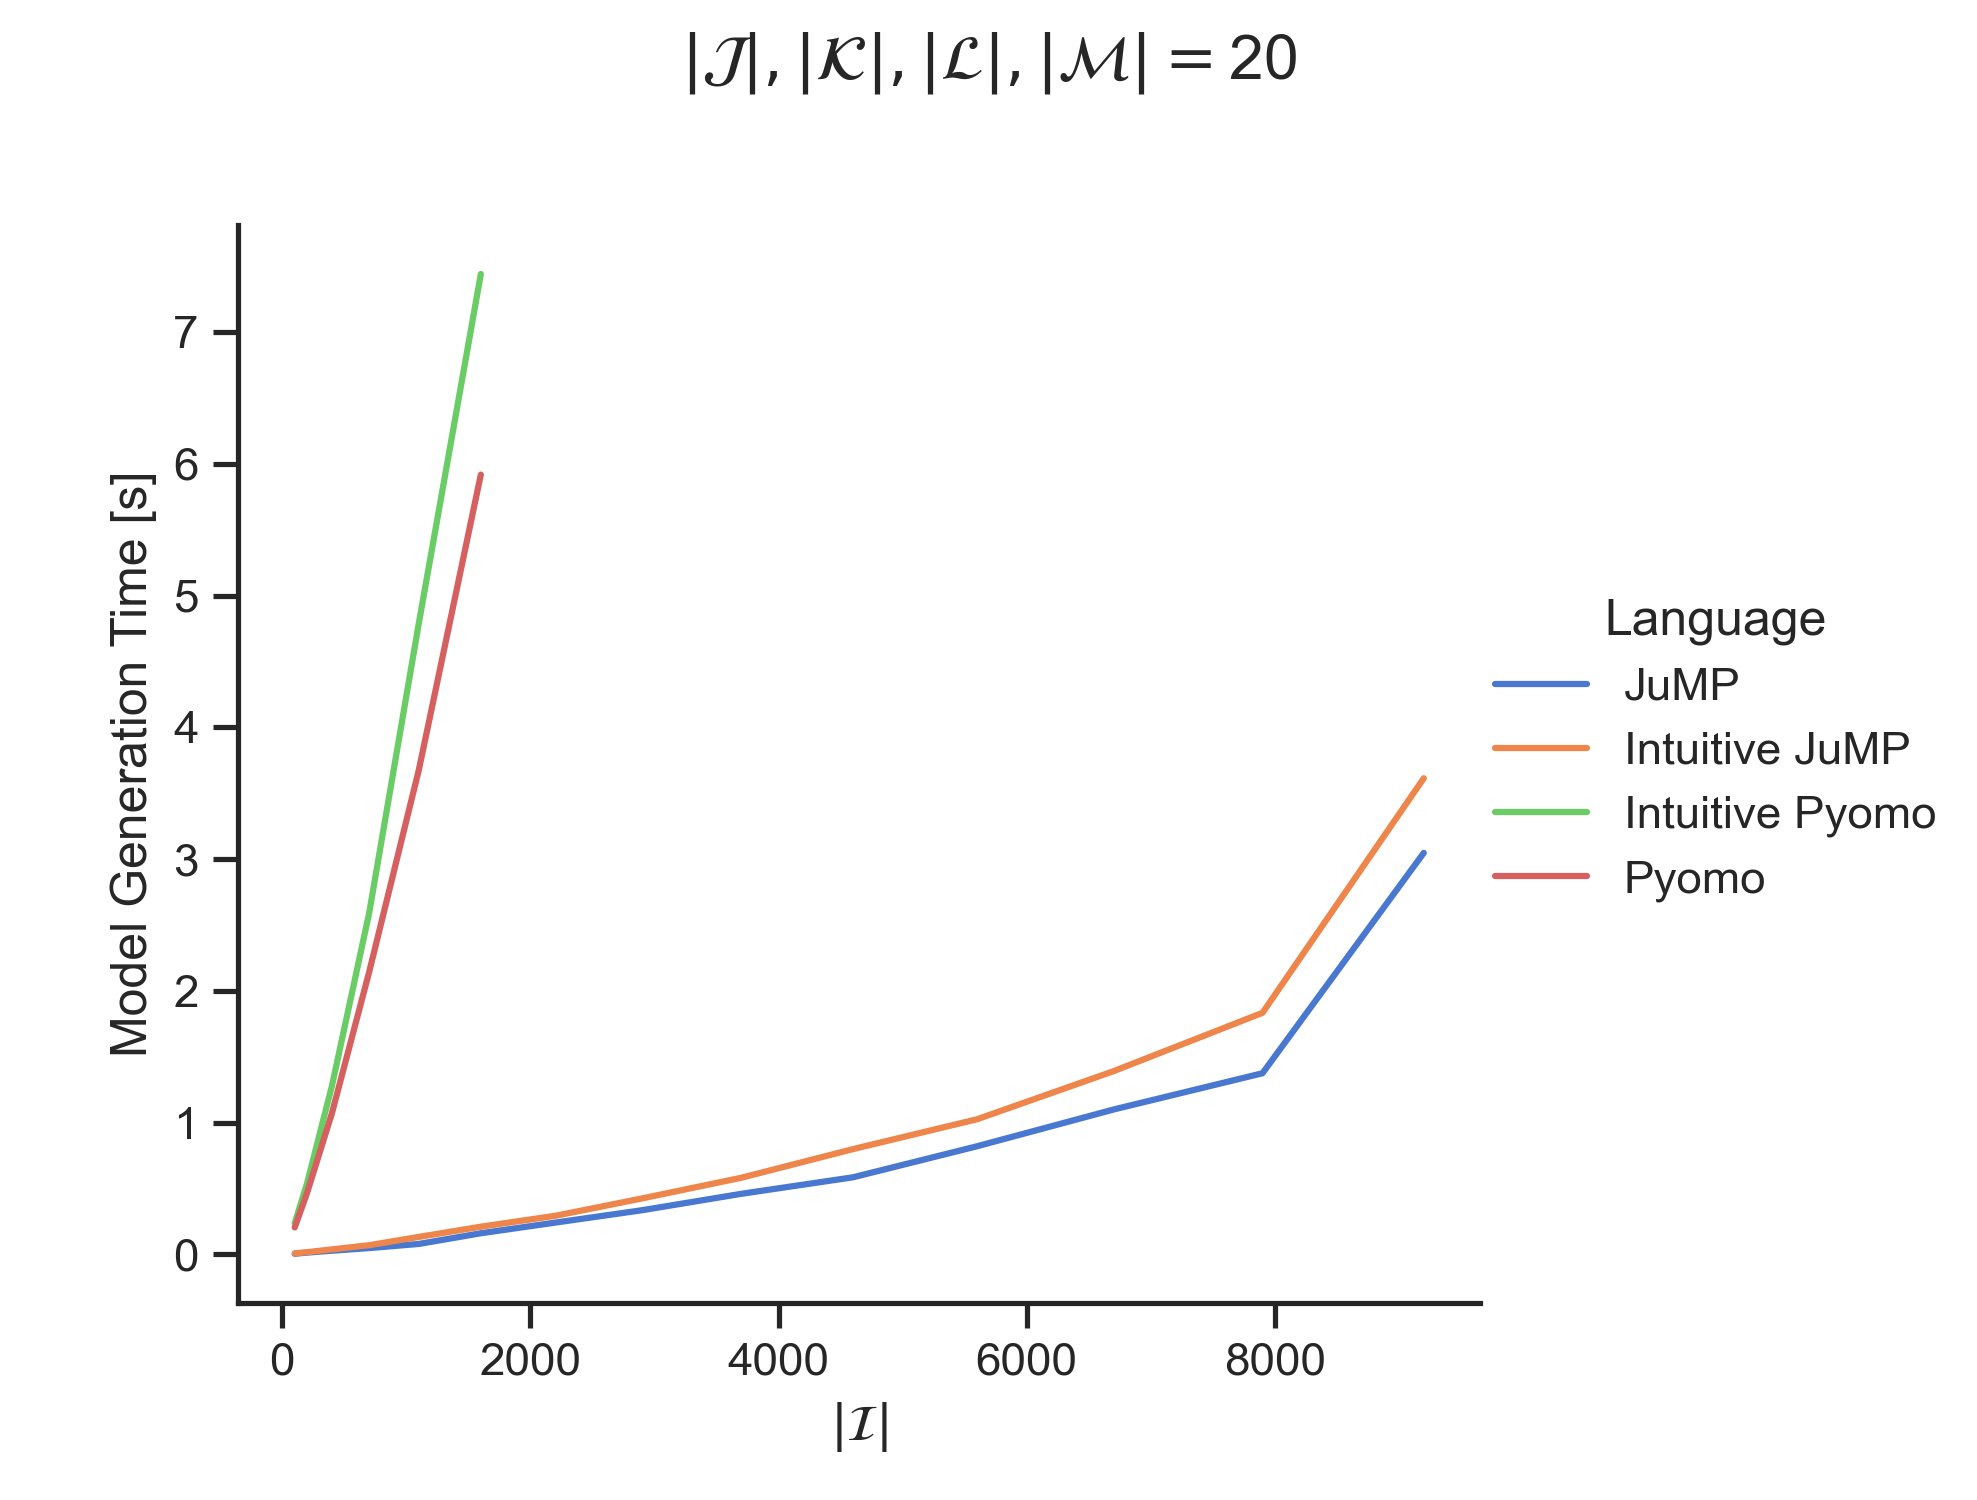
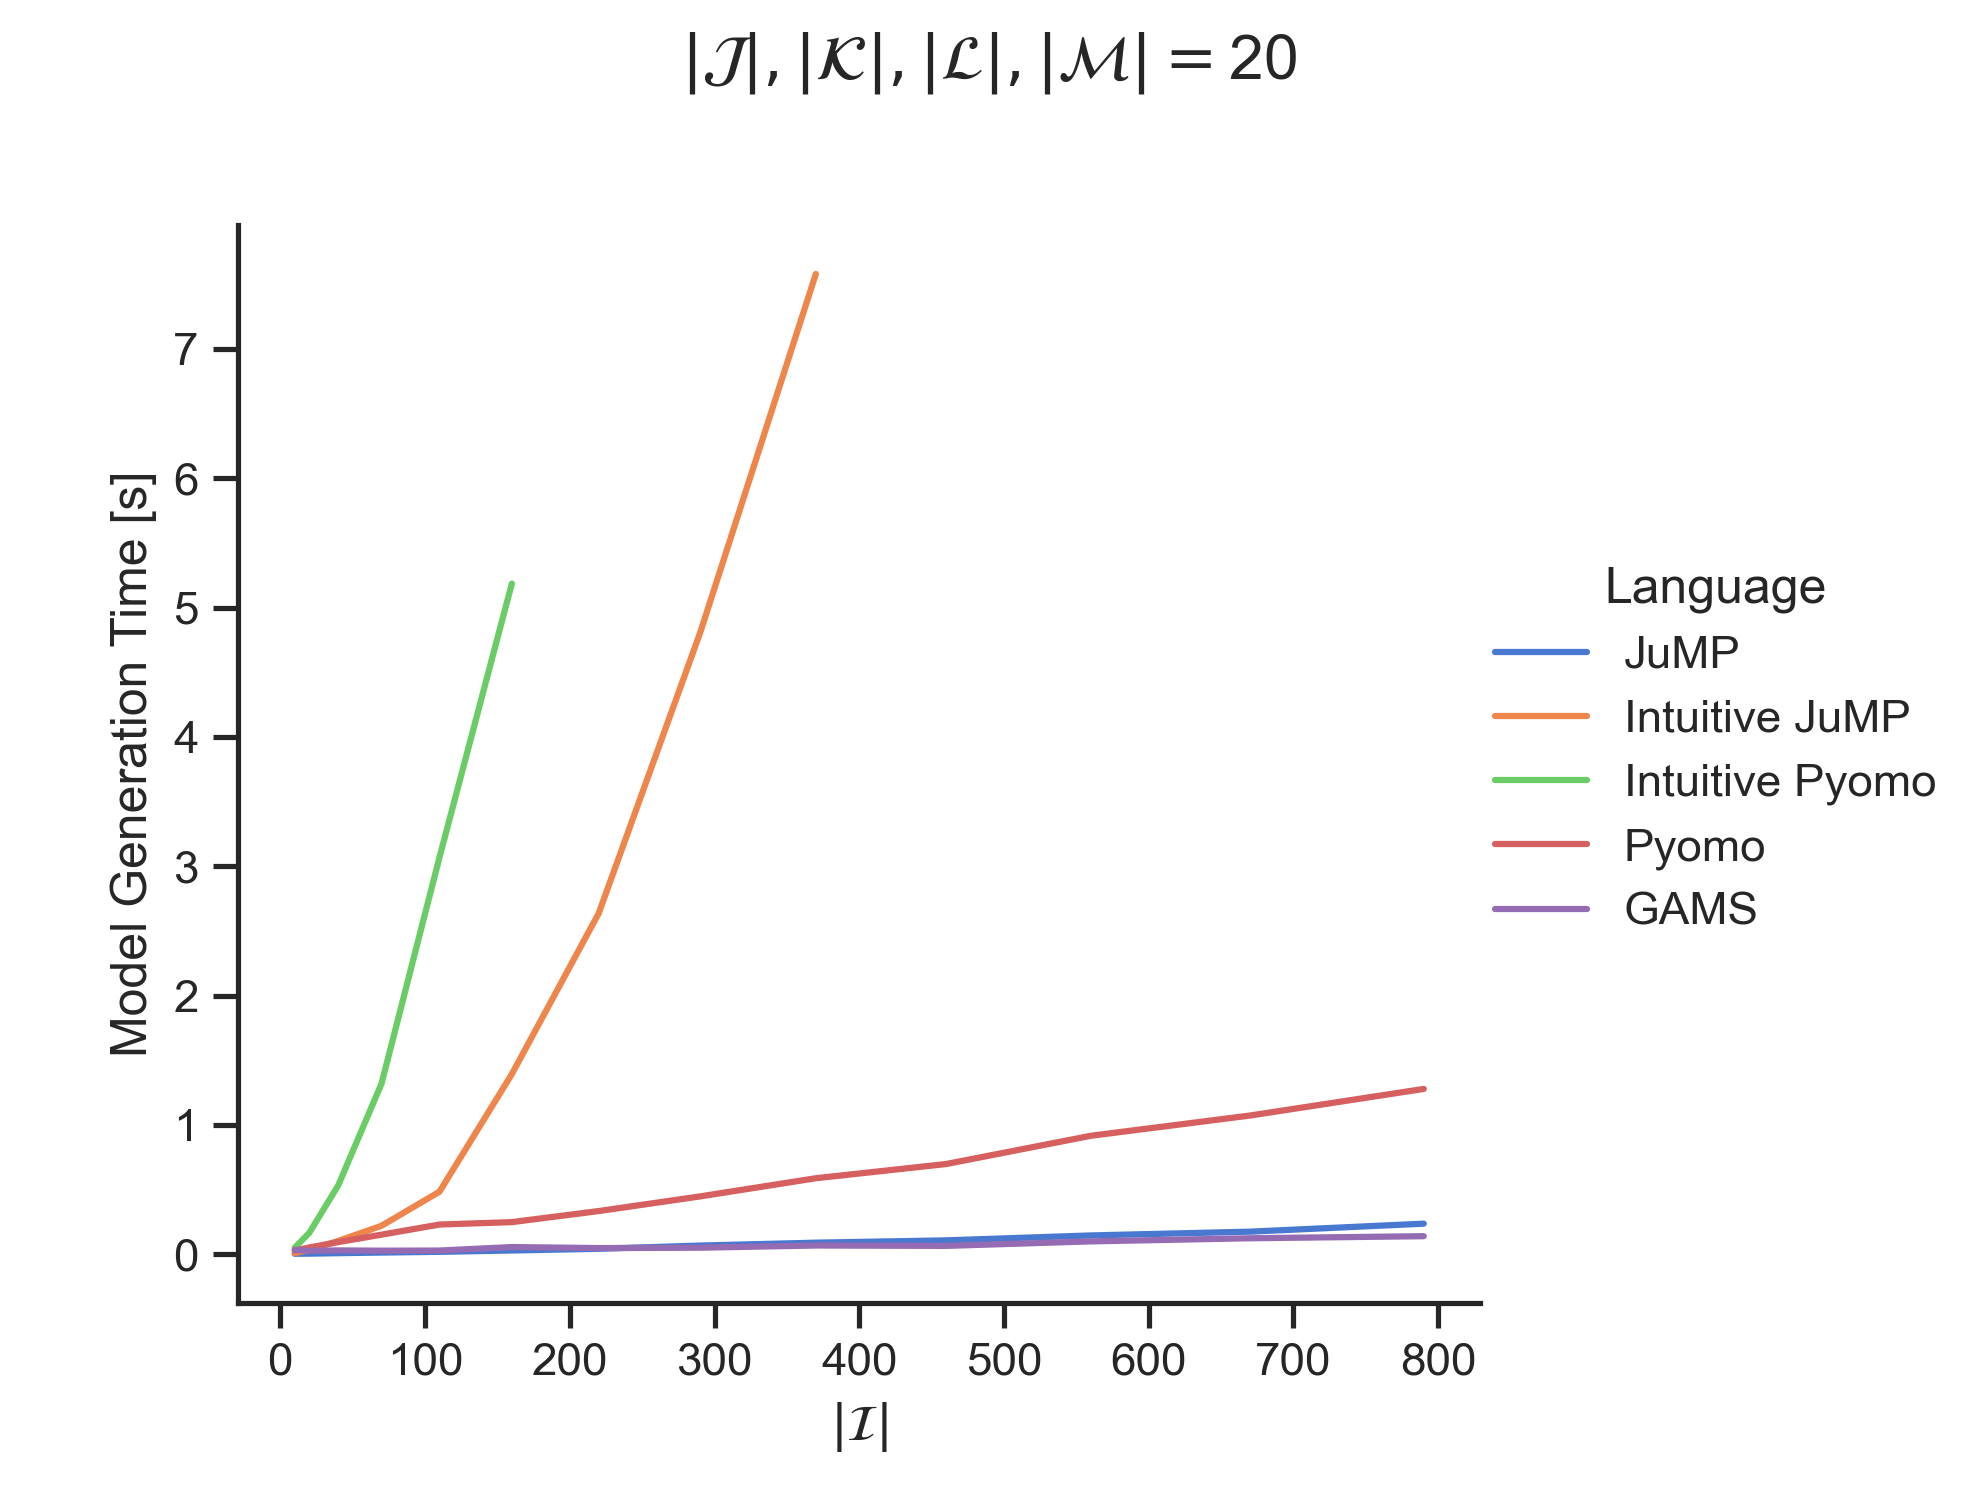
adjust fast implementations

diff --git a/supply_chain/run_pyomo.py b/supply_chain/run_pyomo.py
@@ -56,9 +56,7 @@ def intuitive_pyomo(IK, IL, IM, IJK, IKL, ILM, D, solve):
     model.d = pyo.Param(model.IM, initialize=D)
 
     model.x = pyo.Var(model.IJK, domain=pyo.NonNegativeReals)
-
     model.y = pyo.Var(model.IKL, domain=pyo.NonNegativeReals)
-
     model.z = pyo.Var(model.ILM, domain=pyo.NonNegativeReals)
 
     model.OBJ = pyo.Objective(expr=model.f)
@@ -94,22 +92,62 @@ def intuitive_demand_rule(model, i, m):
 
 
 ########## Pyomo ##########
-def run_pyomo(I, L, M, IJ, JK, IK, KL, LM, D, solve, repeats, number):
+def run_pyomo(I, IK, IL, IM, IJK, IKL, ILM, D, solve, repeats, number):
+    IK_IJK = {(i, k): [] for (i, k) in IK}
+    IK_IKL = {(i, k): [] for (i, k) in IK}
+    IL_IKL = {(i, l): [] for (i, l) in IL}
+    IL_ILM = {(i, l): [] for (i, l) in IL}
+    IM_ILM = {(i, m): [] for (i, m) in IM}
+
+    IK_IJK.update(
+        {
+            (i, k): list(group)
+            for (i, k), group in itertools.groupby(sorted(IJK), itemgetter(0, 2))
+        }
+    )
+    IK_IKL.update(
+        {
+            (i, k): list(group)
+            for (i, k), group in itertools.groupby(sorted(IKL), itemgetter(0, 1))
+        }
+    )
+    IL_IKL.update(
+        {
+            (i, l): list(group)
+            for (i, l), group in itertools.groupby(sorted(IKL), itemgetter(0, 2))
+        }
+    )
+    IL_ILM.update(
+        {
+            (i, l): list(group)
+            for (i, l), group in itertools.groupby(sorted(ILM), itemgetter(0, 1))
+        }
+    )
+    IM_ILM.update(
+        {
+            (i, m): list(group)
+            for (i, m), group in itertools.groupby(sorted(ILM), itemgetter(0, 2))
+        }
+    )
+
     setup = {
-        "I": I,
-        "L": L,
-        "M": M,
-        "IJ": IJ,
-        "JK": JK,
         "IK": IK,
-        "KL": KL,
-        "LM": LM,
+        "IL": IL,
+        "IM": IM,
+        "IJK": IJK,
+        "IKL": IKL,
+        "ILM": ILM,
+        "IK_IJK": IK_IJK,
+        "IK_IKL": IK_IKL,
+        "IL_IKL": IL_IKL,
+        "IL_ILM": IL_ILM,
+        "IM_ILM": IM_ILM,
         "D": D,
         "solve": solve,
         "model_function": pyomo,
     }
     r = timeit.repeat(
-        "model_function(I, L, M, IJ, JK, IK, KL, LM, D, solve)",
+        "model_function(IK, IL, IM, IJK, IKL, ILM, IK_IJK, IK_IKL, IL_IKL, IL_ILM, IM_ILM,D, solve)",
         repeat=repeats,
         number=number,
         globals=setup,
@@ -127,82 +165,34 @@ def run_pyomo(I, L, M, IJ, JK, IK, KL, LM, D, solve, repeats, number):
     return result
 
 
-def pyomo(I, L, M, IJ, JK, IK, KL, LM, D, solve):
+def pyomo(IK, IL, IM, IJK, IKL, ILM, IK_IJK, IK_IKL, IL_IKL, IL_ILM, IM_ILM, D, solve):
     model = pyo.ConcreteModel()
 
-    model.I = pyo.Set(initialize=I)
-    model.L = pyo.Set(initialize=L)
-    model.M = pyo.Set(initialize=M)
-    model.IJ = pyo.Set(initialize=IJ)
-    model.JK = pyo.Set(initialize=JK)
     model.IK = pyo.Set(initialize=IK)
-    model.KL = pyo.Set(initialize=KL)
-    model.LM = pyo.Set(initialize=LM)
+    model.IL = pyo.Set(initialize=IL)
+    model.IM = pyo.Set(initialize=IM)
+    model.IJK = pyo.Set(initialize=IJK)
+    model.IKL = pyo.Set(initialize=IKL)
+    model.ILM = pyo.Set(initialize=ILM)
 
-    # some data wrangling
-    IJ_dict = defaultdict(set)
-    for i, j in IJ:
-        IJ_dict[i].add(j)
-    KJ_dict = defaultdict(set)
-    for j, k in JK:
-        KJ_dict[k].add(j)
-    # make a dictionary of (i, k) : {(i, j, k) tuples}
-    IK_IJK = {
-        (i, k): {(i, j, k) for j in IJ_dict.get(i, set()) & KJ_dict.get(k, set())}
-        for (i, k) in IK
-    }
-
-    L_M = {l: [] for l in model.L}
-    L_M.update(
-        {
-            l: list(map(itemgetter(1), lm))
-            for l, lm in itertools.groupby(sorted(model.LM), itemgetter(0))
-        }
-    )
-    M_L = {m: [] for m in model.M}
-    M_L.update(
-        {
-            m: list(map(itemgetter(0), lm))
-            for m, lm in itertools.groupby(
-                sorted(model.LM, key=itemgetter(1)), itemgetter(1)
-            )
-        }
-    )
-    L_K = {l: [] for l in model.L}
-    L_K.update(
-        {
-            l: list(map(itemgetter(0), kl))
-            for l, kl in itertools.groupby(
-                sorted(model.KL, key=itemgetter(1)), itemgetter(1)
-            )
-        }
-    )
-
-    model.L_M = pyo.Set(model.L, initialize=L_M)
-    model.M_L = pyo.Set(model.M, initialize=M_L)
-    model.L_K = pyo.Set(model.L, initialize=L_K)
     model.IK_IJK = pyo.Set(IK_IJK.keys(), initialize=IK_IJK)
+    model.IK_IKL = pyo.Set(IK_IKL.keys(), initialize=IK_IKL)
+    model.IL_IKL = pyo.Set(IL_IKL.keys(), initialize=IL_IKL)
+    model.IL_ILM = pyo.Set(IL_ILM.keys(), initialize=IL_ILM)
+    model.IM_ILM = pyo.Set(IM_ILM.keys(), initialize=IM_ILM)
 
     model.f = pyo.Param(default=1)
-    model.d = pyo.Param(model.I, model.M, initialize=D)
+    model.d = pyo.Param(model.IM, initialize=D)
 
-    x_list = list(itertools.chain(*IK_IJK.values()))
-
-    model.x = pyo.Var(x_list, domain=pyo.NonNegativeReals)
-
-    model.y = pyo.Var(
-        [(i, k, l) for i in model.I for (k, l) in model.KL], domain=pyo.NonNegativeReals
-    )
-
-    model.z = pyo.Var(
-        [(i, l, m) for i in model.I for (l, m) in model.LM], domain=pyo.NonNegativeReals
-    )
+    model.x = pyo.Var(model.IJK, domain=pyo.NonNegativeReals)
+    model.y = pyo.Var(model.IKL, domain=pyo.NonNegativeReals)
+    model.z = pyo.Var(model.ILM, domain=pyo.NonNegativeReals)
 
     model.OBJ = pyo.Objective(expr=model.f)
 
-    model.production = pyo.Constraint(IK_IJK.keys(), rule=production_rule)
-    model.transport = pyo.Constraint(model.I, model.L, rule=transport_rule)
-    model.demand = pyo.Constraint(model.I, model.M, rule=demand_rule)
+    model.production = pyo.Constraint(model.IK, rule=production_rule)
+    model.transport = pyo.Constraint(model.IL, rule=transport_rule)
+    model.demand = pyo.Constraint(model.IM, rule=demand_rule)
 
     # model.write("int.lp")
 
@@ -212,22 +202,16 @@ def pyomo(I, L, M, IJ, JK, IK, KL, LM, D, solve):
 
 
 def production_rule(model, i, k):
-    lhs = [model.x[i, j, k] for i, j, k in model.IK_IJK[i, k]]
-    rhs = [model.y[i, k, l] for (kk, l) in model.KL if kk == k]
-
-    if lhs and rhs:
-        return sum(lhs) >= sum(rhs)
-    else:
-        return pyo.Constraint.Skip
+    return sum(model.x[ijk] for ijk in model.IK_IJK[i, k]) >= sum(
+        model.y[ikl] for ikl in model.IK_IKL[i, k]
+    )
 
 
 def transport_rule(model, i, l):
-    if len(model.L_K[l]) or len(model.L_M[l]):
-        return sum(model.y[i, k, l] for k in model.L_K[l]) >= sum(
-            model.z[i, l, m] for m in model.L_M[l]
-        )
-    return pyo.Constraint.Skip
+    return sum(model.y[ikl] for ikl in model.IL_IKL[i, l]) >= sum(
+        model.z[ilm] for ilm in model.IL_ILM[i, l]
+    )
 
 
 def demand_rule(model, i, m):
-    return sum(model.z[i, l, m] for l in model.M_L[m]) >= model.d[i, m]
+    return sum(model.z[ilm] for ilm in model.IM_ILM[i, m]) >= model.d[i, m]

diff --git a/main_suppy_chain.py b/main_suppy_chain.py
@@ -32,7 +32,7 @@ def run_experiment(
     df_pyomo = create_data_frame()
 
     # define the x axis
-    N = list(incremental_range(100, cardinality_of_i + 1, 100, 100))
+    N = list(incremental_range(50, cardinality_of_i + 1, 20, 10))
 
     # create fixed data and convert to tuples and dicts
     J, K, L, M = data.create_fixed_data(m=cardinality_of_j)
@@ -84,23 +84,22 @@ def run_experiment(
             print_log_message(language="Intuitive Pyomo", n=n, df=df_intuitive_pyomo)
 
         # Pyomo
-        # if below_time_limit(df_pyomo, time_limit):
-        #     rr = run_pyomo(
-        #         I=I,
-        #         L=L,
-        #         M=M,
-        #         IJ=ij_tuple,
-        #         JK=jk_tuple,
-        #         IK=ik_tuple,
-        #         KL=kl_tuple,
-        #         LM=lm_tuple,
-        #         D=d_dict,
-        #         solve=solve,
-        #         repeats=repeats,
-        #         number=number,
-        #     )
-        #     df_pyomo = process_results(rr, df_pyomo)
-        #     print_log_message(language="Pyomo", n=n, df=df_pyomo)
+        if below_time_limit(df_pyomo, time_limit):
+            rr = run_pyomo(
+                I=I,
+                IK=ik_tuple,
+                IL=il_tuple,
+                IM=im_tuple,
+                IJK=ijk_tuple,
+                IKL=ikl_tuple,
+                ILM=ilm_tuple,
+                D=d_dict,
+                solve=solve,
+                repeats=repeats,
+                number=number,
+            )
+            df_pyomo = process_results(rr, df_pyomo)
+            print_log_message(language="Pyomo", n=n, df=df_pyomo)
 
     # JuMP
     df_jump, df_intuitive_jump = run_julia(solve, repeats, number, time_limit)
@@ -123,7 +122,7 @@ def run_experiment(
 
 
 if __name__ == "__main__":
-    CI = 10000
+    CI = 8000
     CJ = 20
 
     create_directories("supply_chain")
